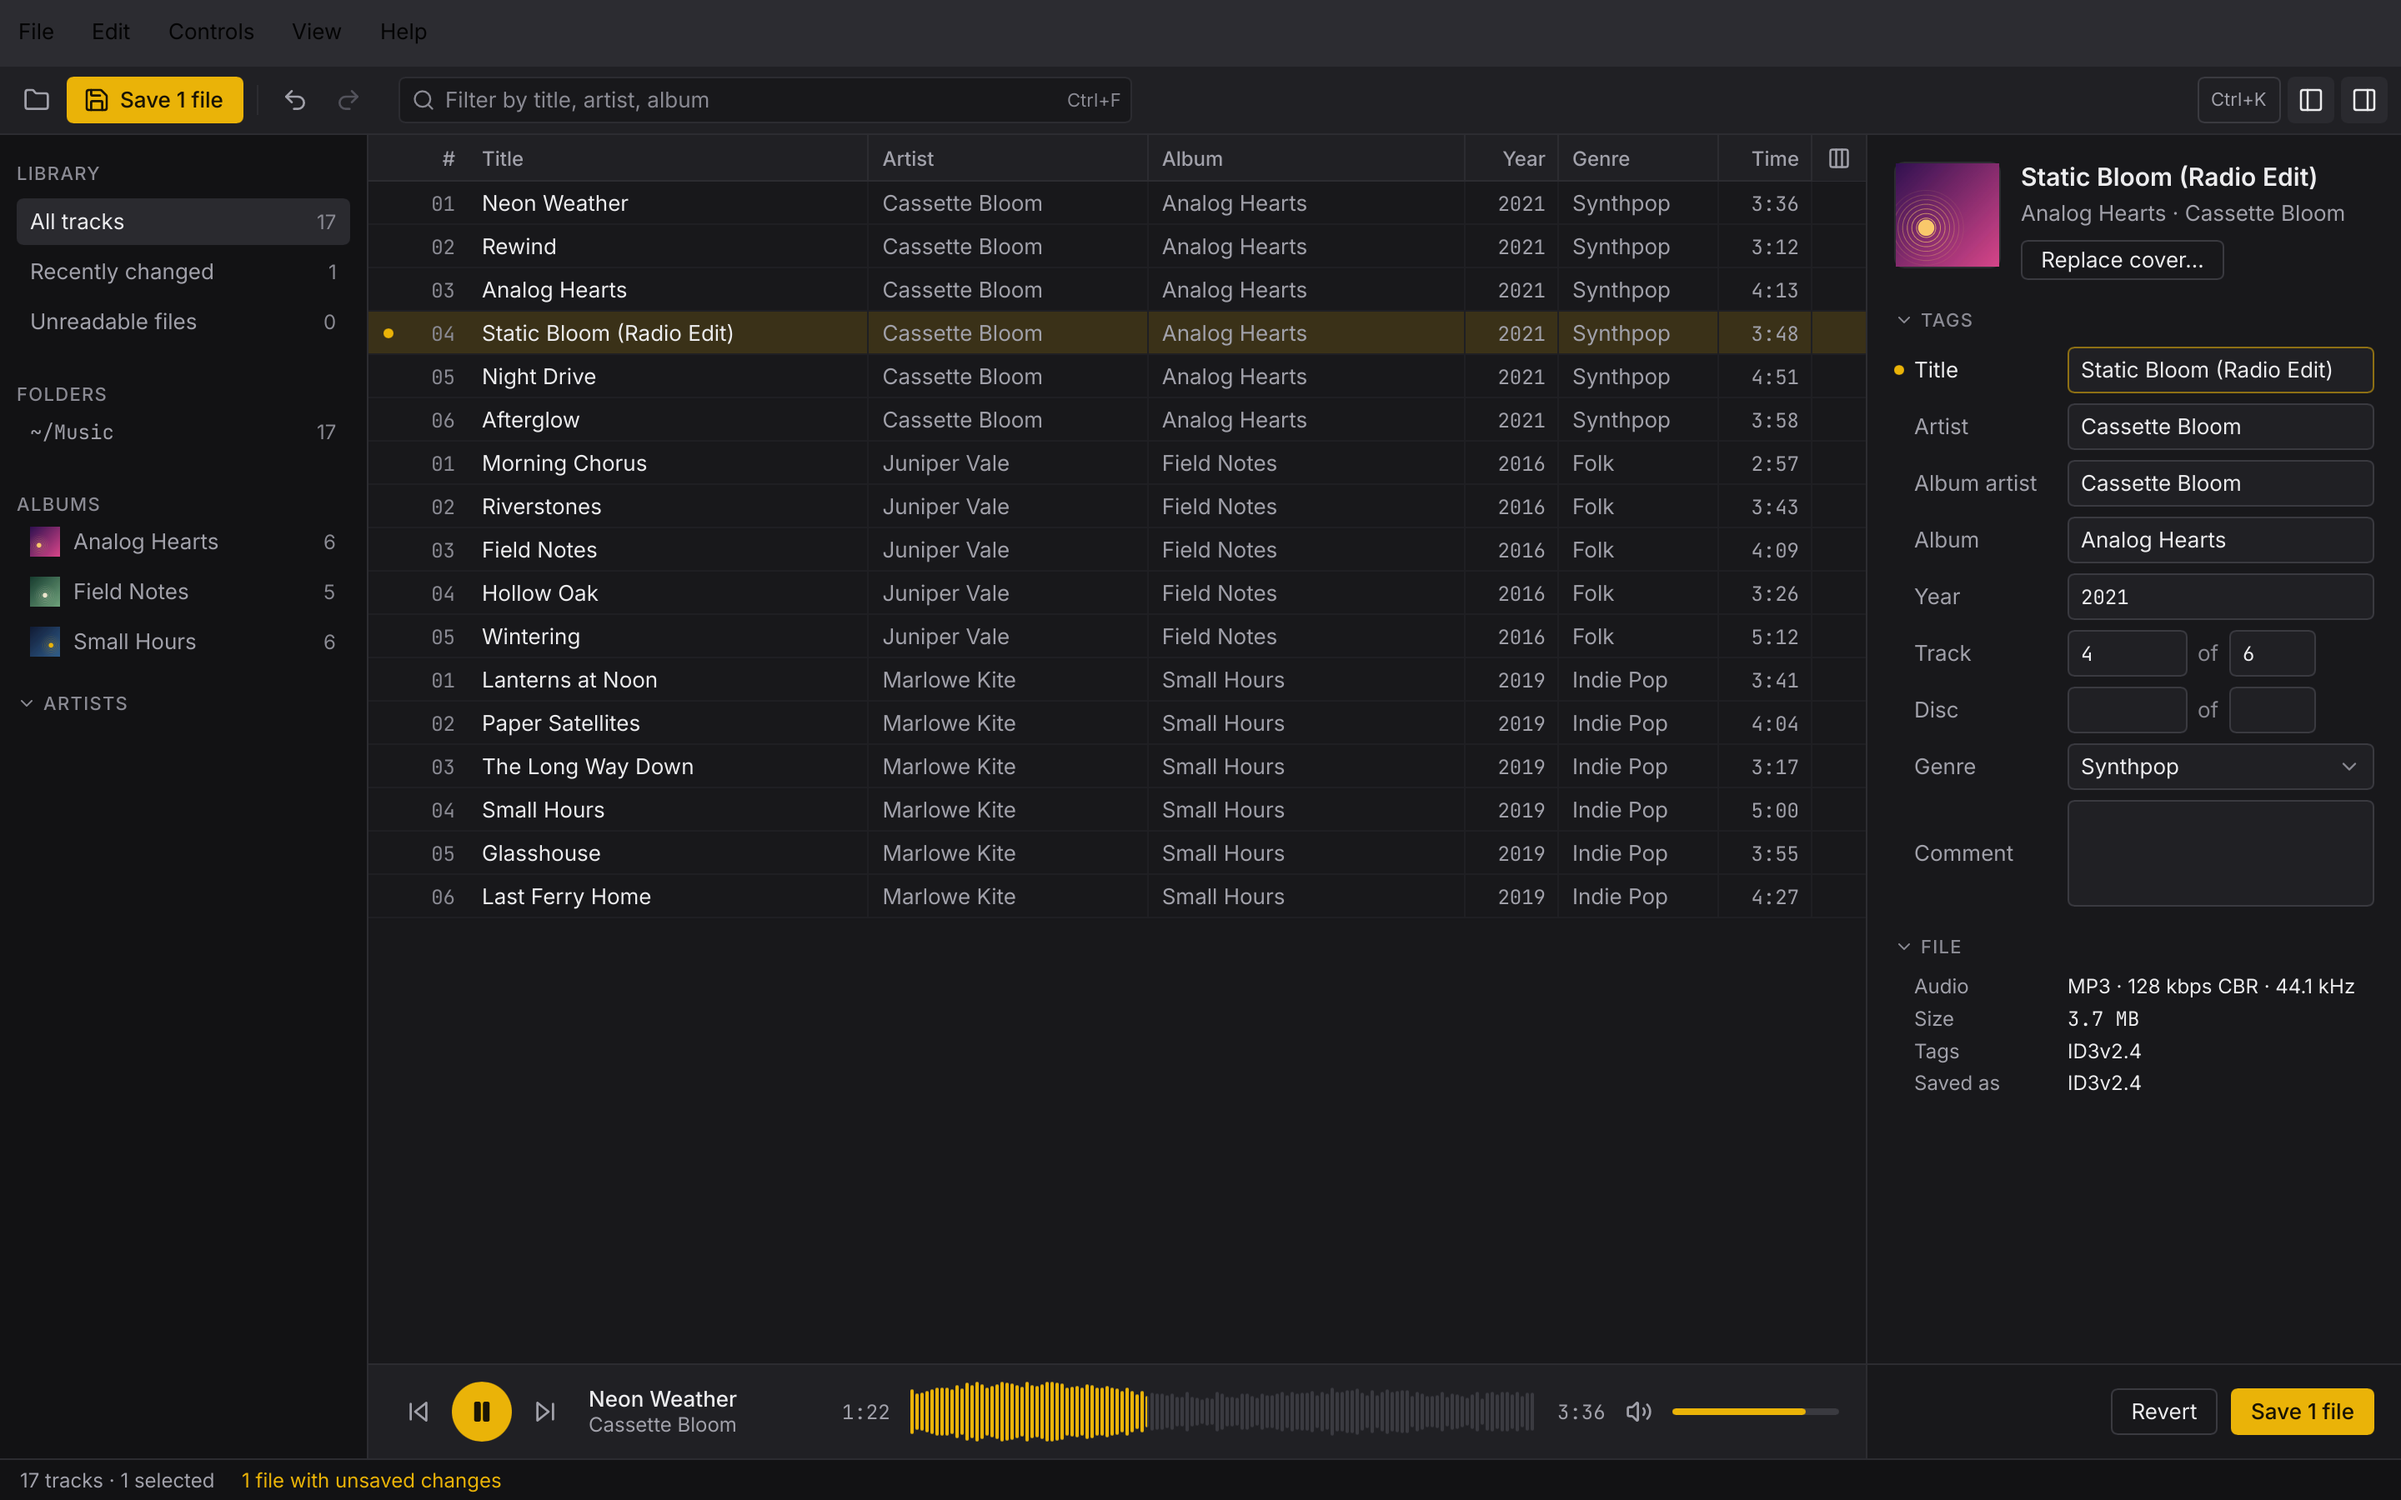
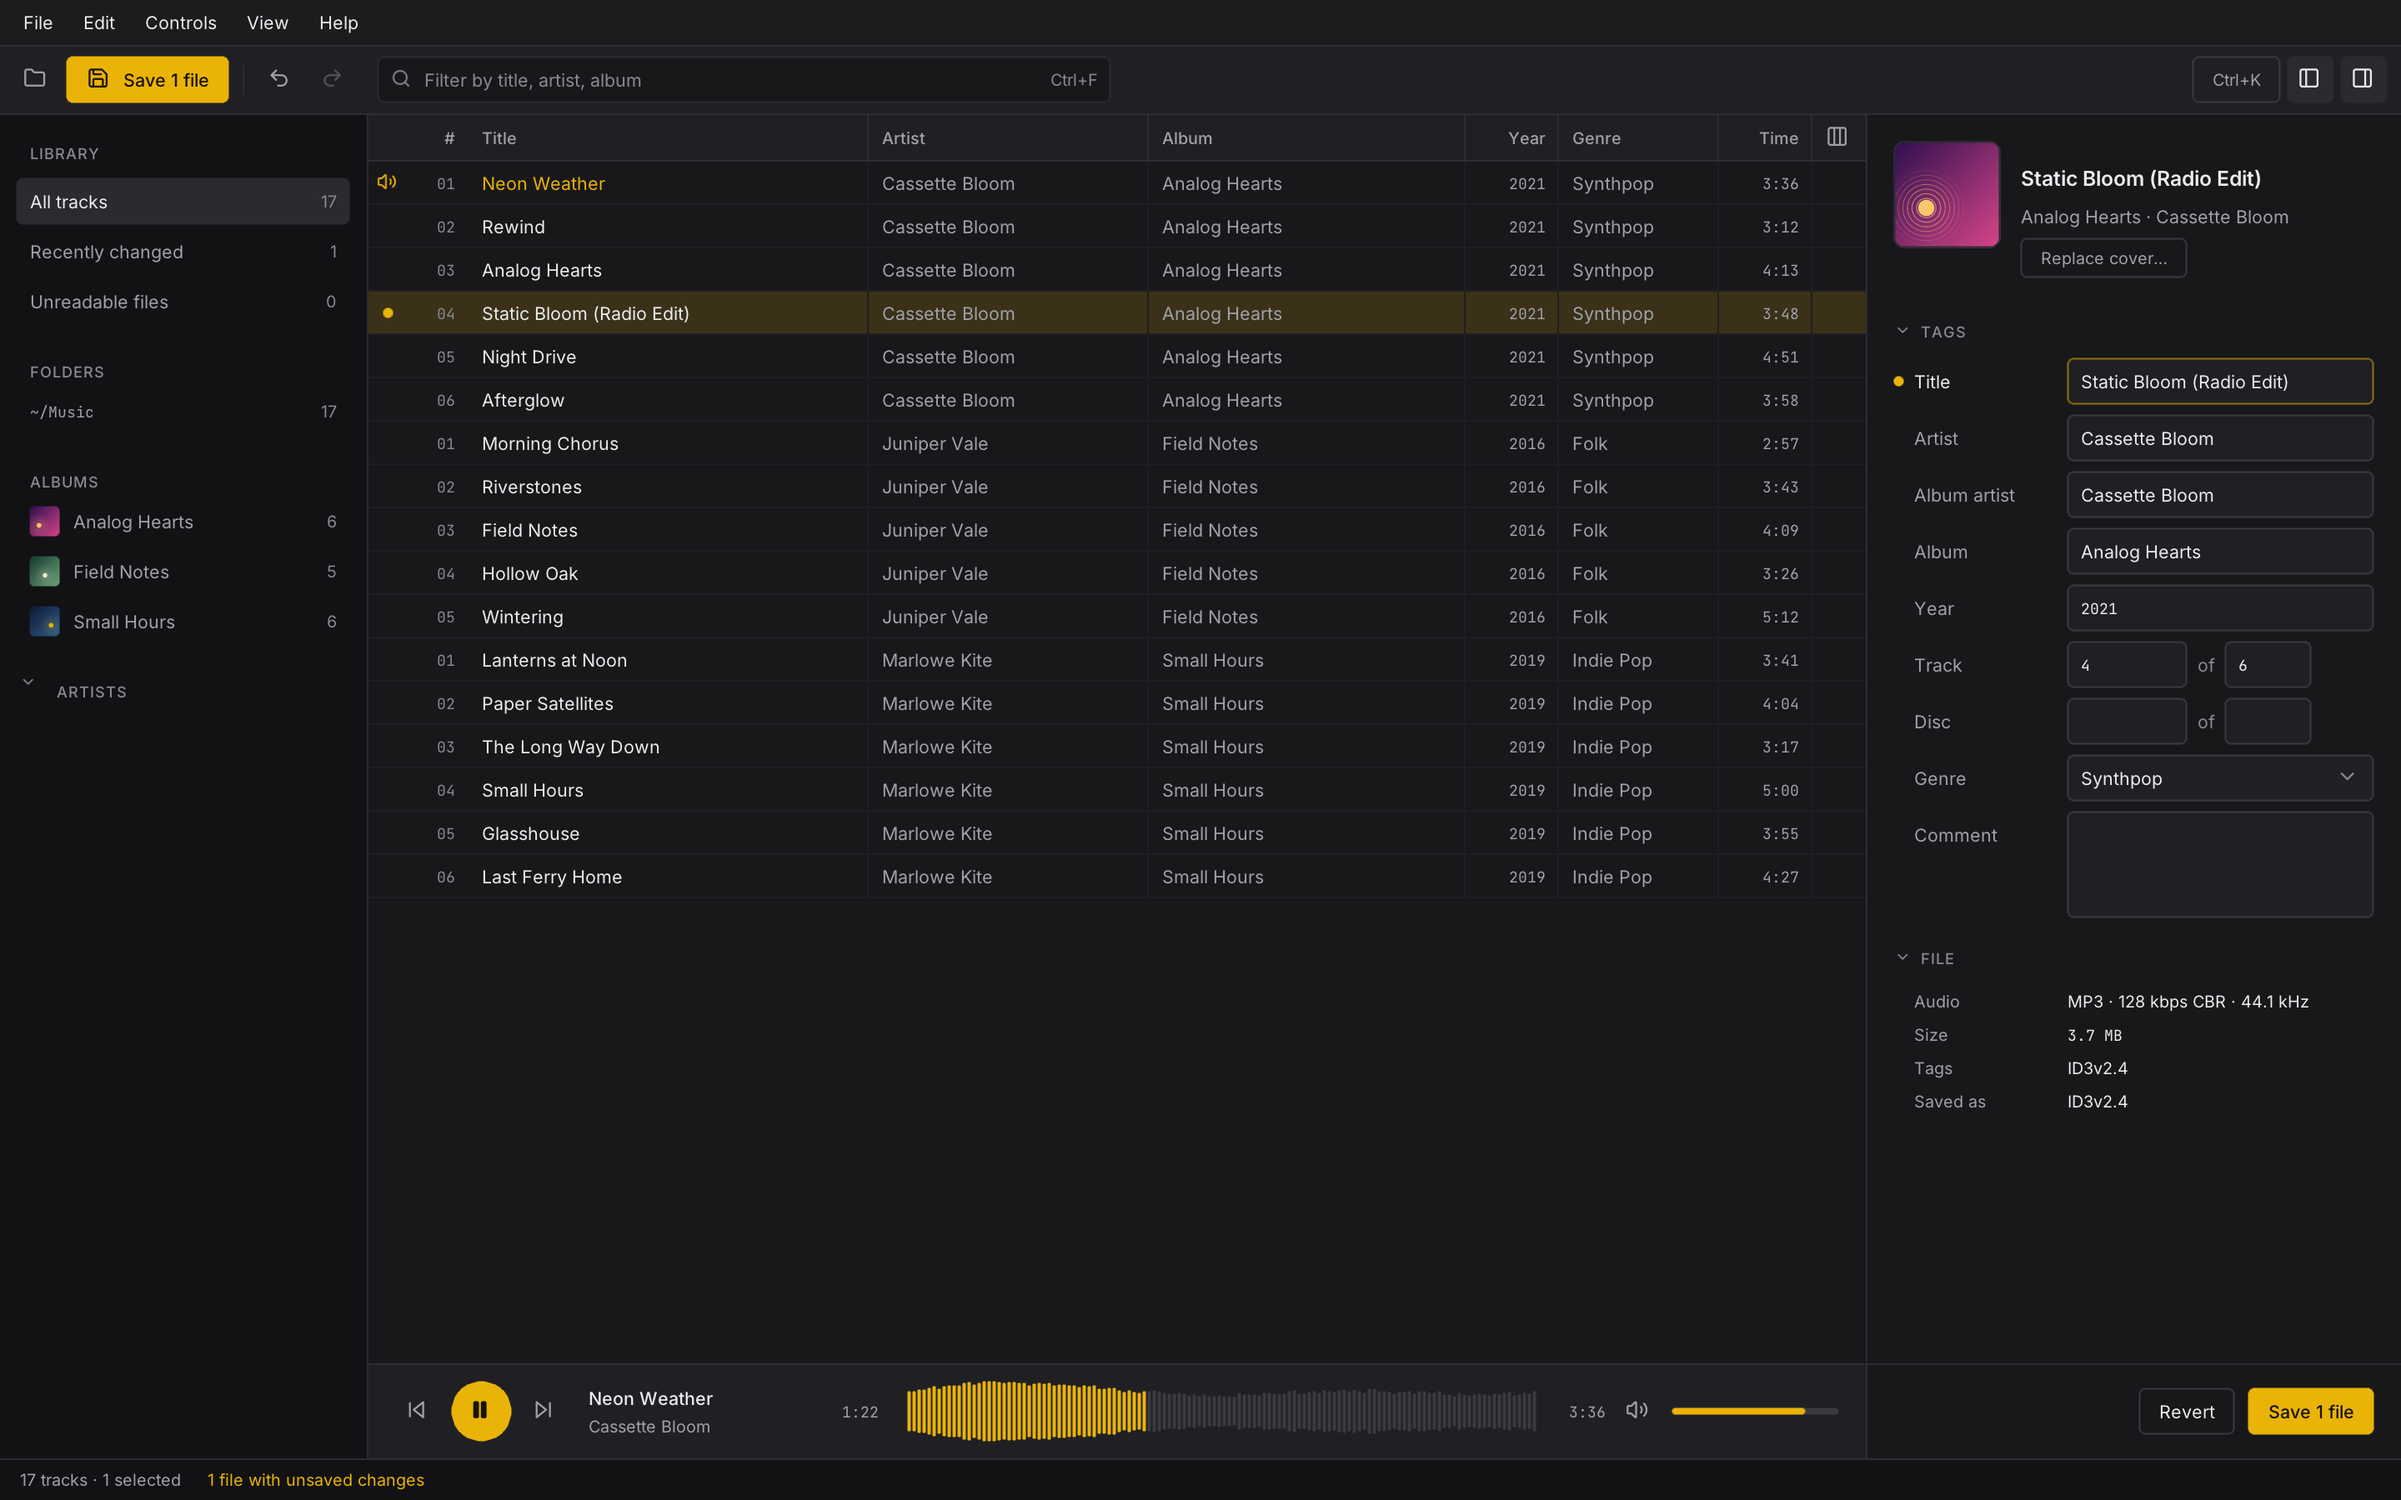
docs: the README's screenshots come from the Odin build (#156)

diff --git a/site/index.html b/site/index.html
@@ -404,7 +404,7 @@
           </div>
           <div class="border-b border-line">
             <p class="mx-auto max-w-7xl overflow-x-auto px-4 py-5 font-mono text-[13px] whitespace-nowrap text-subtle sm:px-8">
-              Or build it from source: <span class="text-ink">cargo build --release -p colophon</span>
+              Or build it from source: <span class="text-ink">./scripts/build.sh release</span>
             </p>
           </div>
         </section>
@@ -437,7 +437,7 @@
         <div class="border-t border-line">
           <div class="mx-auto flex max-w-7xl flex-wrap justify-between gap-3 px-4 py-6 font-mono text-xs text-subtle sm:px-8">
             <span>© 2026 Florent Sorel</span>
-            <a href="https://slint.dev" class="hover:text-ink">Made with Slint</a>
+            <a href="https://odin-lang.org" class="hover:text-ink">Made with Odin and SDL3</a>
           </div>
         </div>
       </footer>

diff --git a/docs/odin-migration.md b/docs/odin-migration.md
@@ -180,7 +180,7 @@ Each screen matches 1.0.0's reference captures (`crates/ui-slint/tests/reference
 ### Phase 6: release
 
 - [x] **47. `build: packages and release`.** The `.dmg` (one binary for Apple silicon and Intel with `lipo`), the Windows installer from `packaging/windows/colophon.iss`, the AppImage, each with SDL3; `release.yml` from a version tag. Done: `packages.yml` builds the three on every pull request that touches the packaging and for a release (macOS on one runner per architecture then `lipo`, Windows with Inno Setup, Linux on Ubuntu 22.04 with linuxdeploy), a composite action sets the toolchain up, and `release.yml` runs on a `v*` tag, checks it against `VERSION` and makes a draft release with the files. Each package is run in the CI after it is built (a frame drawn from the bundled app, the installed exe and the AppImage). The three packages build on this slice's CI; the release workflow itself runs at the first tag, Florent's call. The window's icon is set when it is made (title bar and task bar on Windows and X11, the Dock on macOS, Wayland where the compositor takes one, else from the desktop file), and the executable's on Windows is a resource for Explorer and the installer, as the bundles carry theirs.
-- [ ] **48. `docs: readme and site`.** Odin badges, development section, new screenshots.
+- [x] **48. `docs: readme and site`.** Odin badges, development section, new screenshots. Done: the badges and the development section came earlier (the README's), the screenshots are drawn by the Odin build (`the_readme_screenshots` in `src/app/screenshots_test.odin`, run with `WRITE_SCREENSHOTS=1`: the demo library of 1.0.0's, 17 tracks in three albums with generated covers, one title edited, the first track playing at 38 per cent, at twice 1440 by 900 in both themes), and the site builds from source with `./scripts/build.sh release` and says it is made with Odin and SDL3.
 - [ ] **49. Parity check.** Every line of [Parity with 1.0.0](#parity-with-100) ticked, the app checked by Florent on the three systems, then Florent merges `odin-migration` into `main`.
 
 ## Risks
